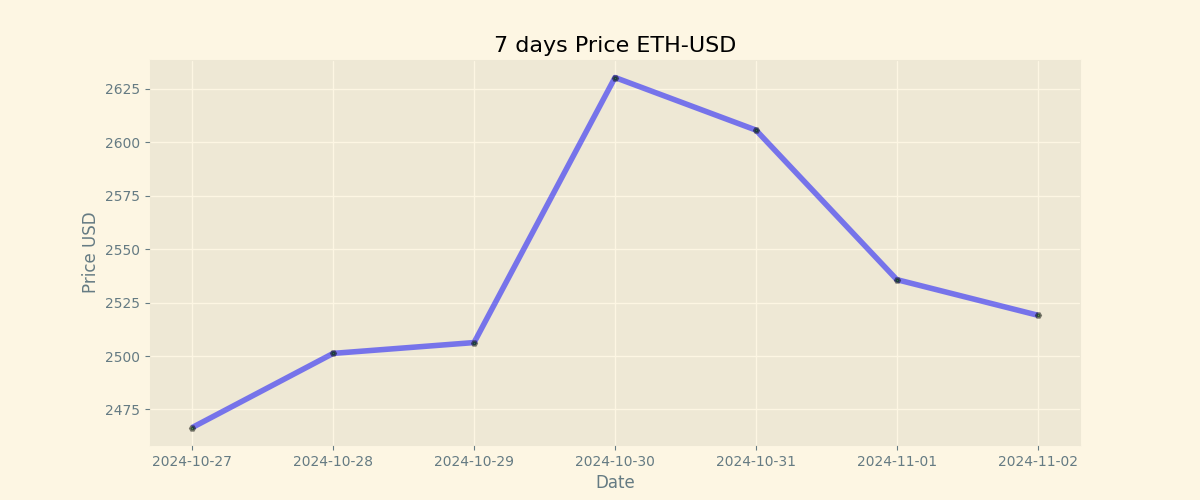
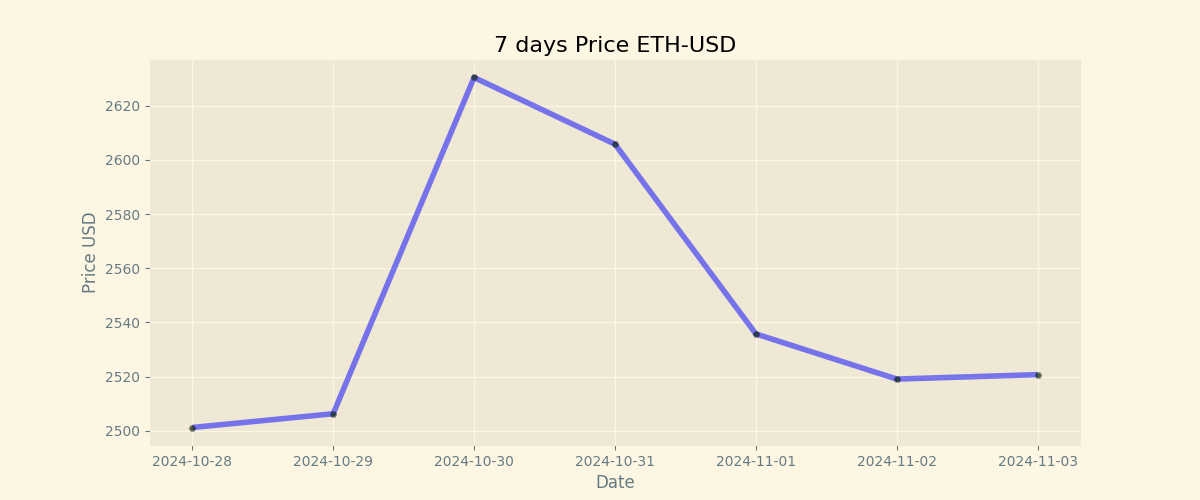
Duty Updates 2024-11-03

diff --git a/README.md b/README.md
@@ -9,8 +9,8 @@
 
 | Currency | Price           |
 | -------- | --------------- |
-| **BTC**  | **$ 69627.26** |
-| **ETH**  | **$ 2519.1** |
+| **BTC**  | **$ 69713.95** |
+| **ETH**  | **$ 2520.73** |
 
 ## BTC chart
 
